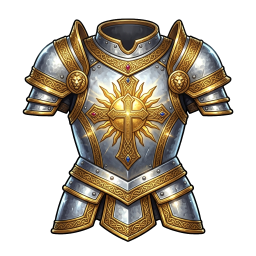
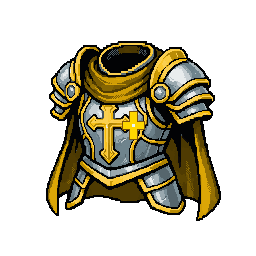
fix(assets): redesign Archer & Paladin gear sprites with transparent background and fix pm2restart on Linux VPS

diff --git a/commands/admin/git/pm2restart.js b/commands/admin/git/pm2restart.js
@@ -30,10 +30,26 @@ function getPm2Command() {
     }
   }
 
-  // 2. Check NVM versions directory
-  const home = process.env.HOME || (process.env.HOMEDRIVE && process.env.HOMEPATH ? `${process.env.HOMEDRIVE}${process.env.HOMEPATH}` : null);
-  if (home) {
-    const nvmDir = path.join(home, '.nvm', 'versions', 'node');
+  // 2. Check NVM versions directory for current user, root, and any /home/* user
+  const homes = [
+    process.env.HOME,
+    '/root',
+    '/home/ubuntu',
+    '/home/node',
+    process.env.HOMEDRIVE && process.env.HOMEPATH ? `${process.env.HOMEDRIVE}${process.env.HOMEPATH}` : null
+  ].filter(Boolean);
+
+  try {
+    if (fs.existsSync('/home')) {
+      const users = fs.readdirSync('/home');
+      for (const u of users) {
+        homes.push(path.join('/home', u));
+      }
+    }
+  } catch {}
+
+  for (const h of homes) {
+    const nvmDir = path.join(h, '.nvm', 'versions', 'node');
     if (fs.existsSync(nvmDir)) {
       try {
         const versions = fs.readdirSync(nvmDir);
@@ -46,7 +62,7 @@ function getPm2Command() {
       } catch {}
     }
 
-    const npmGlobal = path.join(home, '.npm-global', 'bin', 'pm2');
+    const npmGlobal = path.join(h, '.npm-global', 'bin', 'pm2');
     if (fs.existsSync(npmGlobal)) {
       return `"${npmGlobal}"`;
     }
@@ -105,7 +121,11 @@ class Pm2RestartCommand extends BaseCommand {
 
     const sentMessage = await message.reply(`⏳ Đang khởi động lại ứng dụng **${appName}** bằng PM2...`).catch(() => null);
 
-    exec(`${pm2Bin} restart ${appName}`, { env }, (error, stdout, stderr) => {
+    const runCmd = process.platform === 'win32'
+      ? `${pm2Bin} restart ${appName}`
+      : `bash -l -c '${pm2Bin} restart ${appName} || npx --yes pm2 restart ${appName}'`;
+
+    exec(runCmd, { env }, (error, stdout, stderr) => {
       let output = '';
       if (error) {
         output += `❌ **Lỗi:**\n\`\`\`bash\n${error.message}\n\`\`\``;
